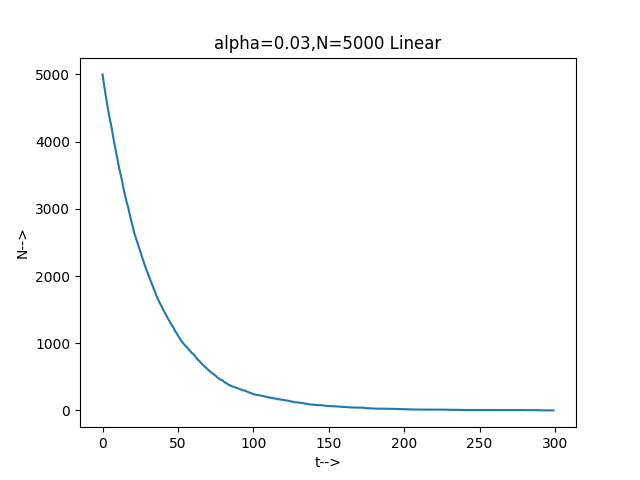
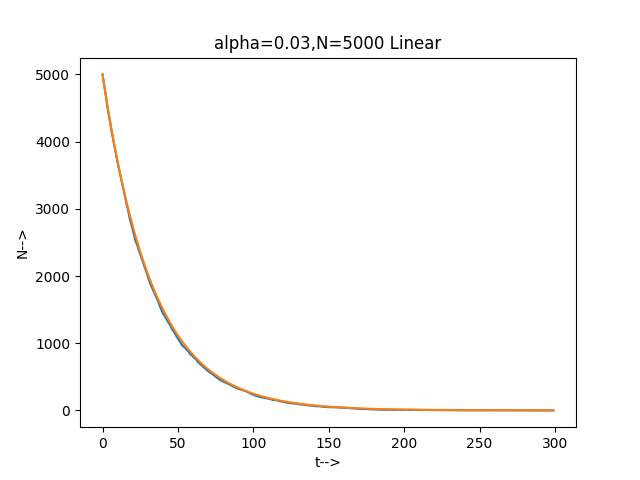
take5

diff --git a/1.py b/1.py
@@ -1,20 +1,25 @@
 import matplotlib.pyplot as plt
-import numpy
-
+import numpy as np
+import math
 def survivors(N,a,T):
     pop=[]
+    N_0=N
     x=0
     t=0
     while t<T:
         pop.append(N)
-        prob=numpy.random.random(N)
+        prob=np.random.random(N)
+    
+        
         sum=0
         for p in prob:
             if p>a:
                 sum=sum+1
         N=sum
         t=t+1
-    return [range(t),pop]
+    x = np.linspace(0, t, 100)
+    y = np.exp(x)
+    return [range(t),pop,[N_0*np.exp(-a*i) for i in range(t)]]
       
 
         
@@ -23,12 +28,14 @@ surv1=survivors(100,0.01,300)
 surv2=survivors(5000,0.03,300)
 
 plt.plot(surv1[0],surv1[1])
+plt.plot(surv1[0], surv1[2])
 plt.xlabel("t-->")
 plt.ylabel("N-->")
 plt.title("alpha=0.01,N=100 Linear")
 plt.show()
 
 plt.plot(surv2[0],surv2[1])
+plt.plot(surv2[0], surv2[2])
 plt.xlabel("t-->")
 plt.ylabel("N-->")
 plt.title("alpha=0.03,N=5000 Linear")
@@ -37,6 +44,7 @@ plt.show()
 
 plt.semilogy()
 plt.plot(surv1[0],surv1[1])
+plt.plot(surv1[0], surv1[2])
 plt.xlabel("t-->")
 plt.ylabel("N-->")
 plt.title("alpha=0.01,N=100 Log")
@@ -44,6 +52,7 @@ plt.show()
 
 plt.semilogy()
 plt.plot(surv2[0],surv2[1])
+plt.plot(surv2[0], surv2[2])
 plt.xlabel("t-->")
 plt.ylabel("N-->")
 plt.title("alpha=0.03,N=5000 Log")
